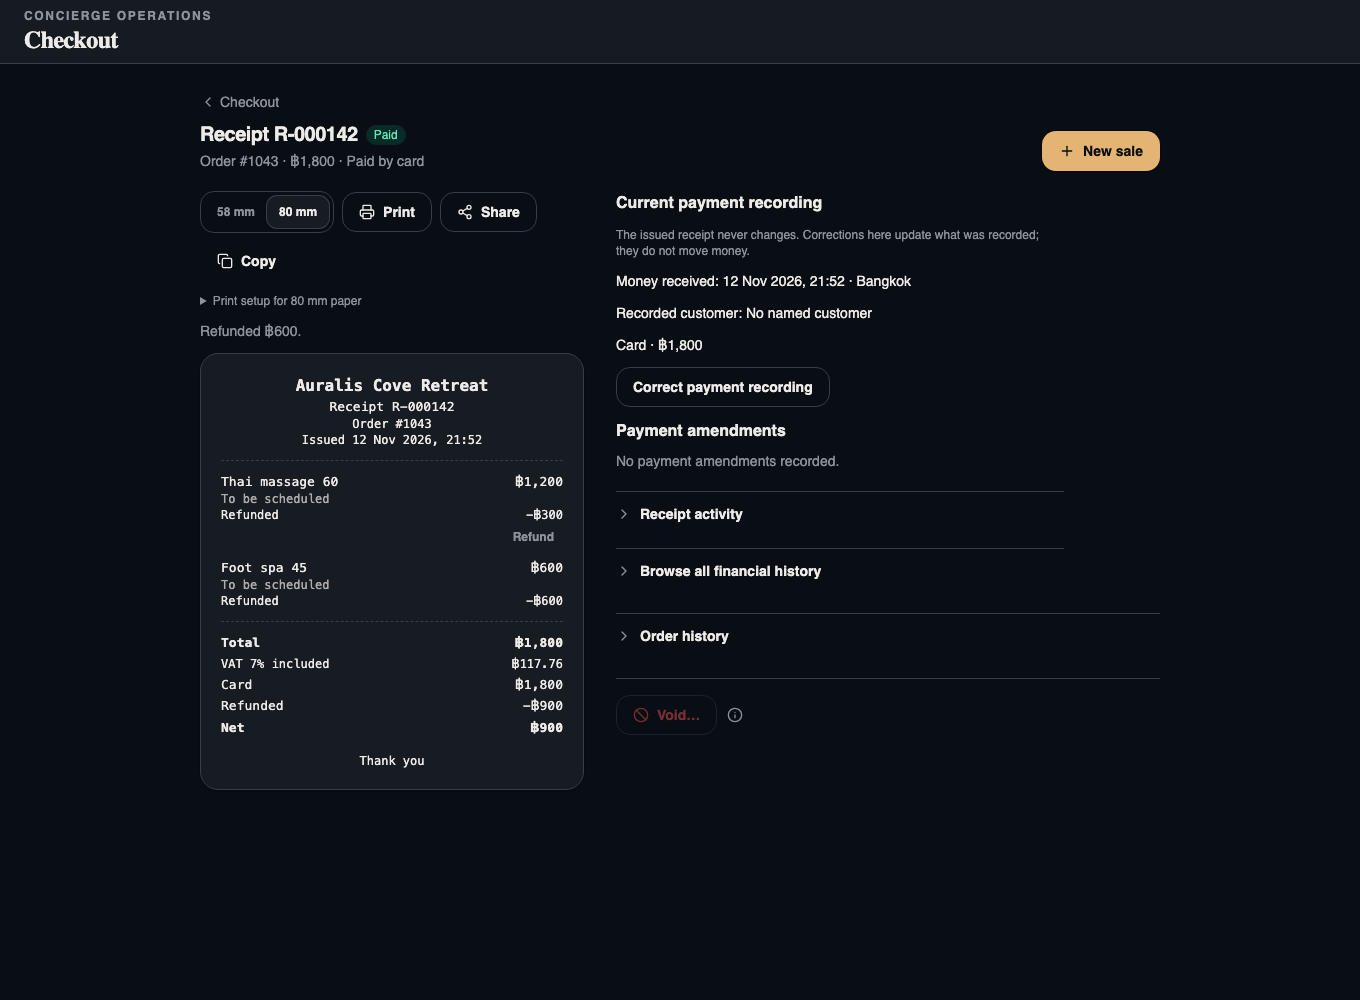
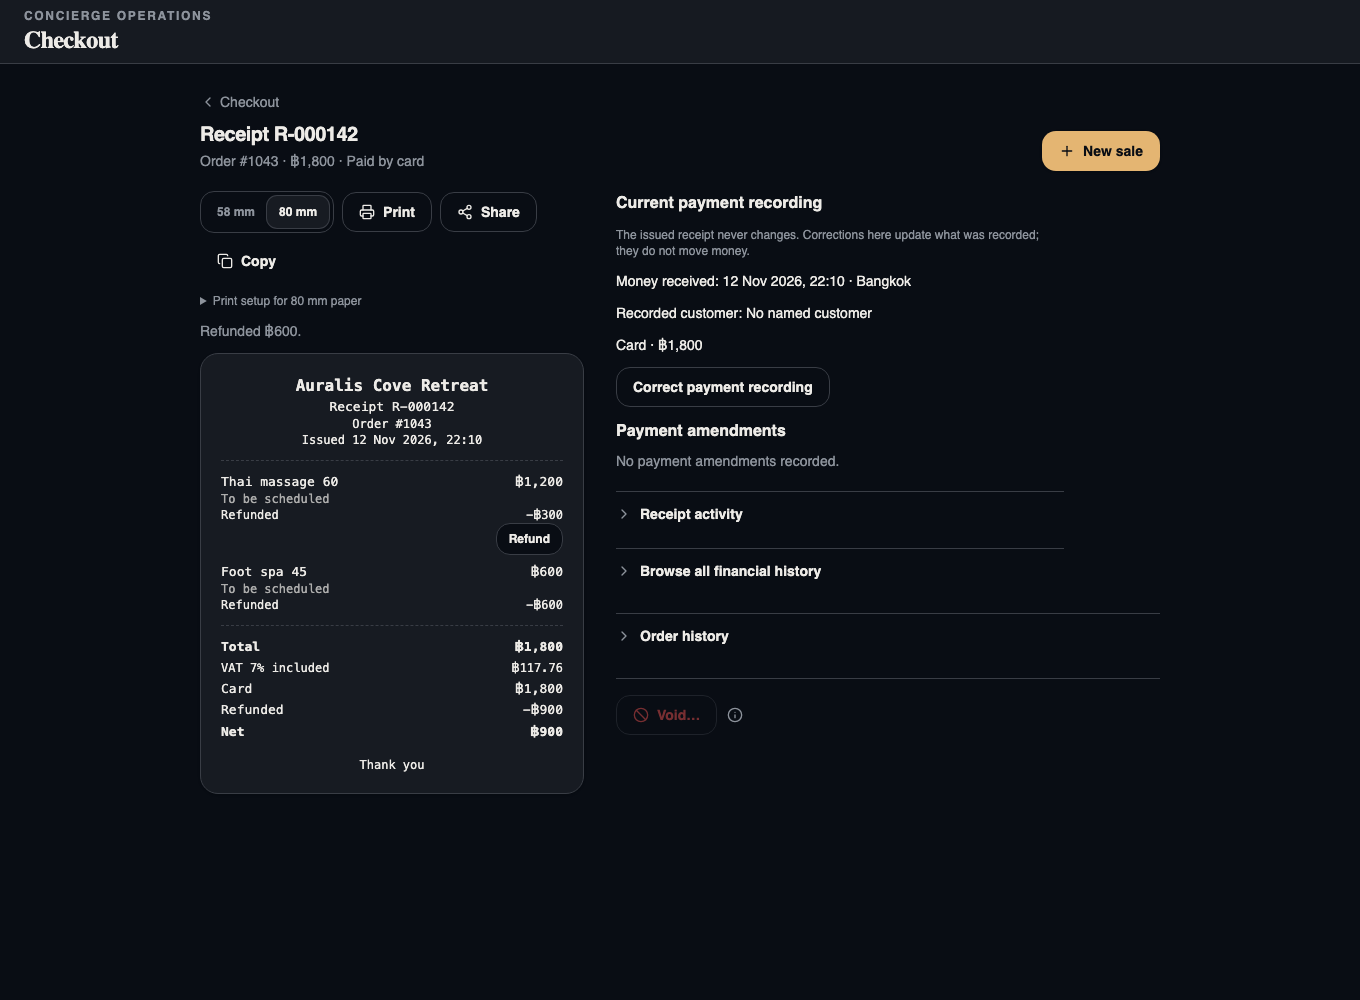
fix: address refund UI review findings
- Share and copy text show per-line refunds, Refunded and Net, as printed
- Plain-message refusals count as answered, keeping the amount cap
- Accept amounts like .5; prefill follows another till's refund until typed
- Say why Send request is off while a request waits
- Visible Refund button; status pill only when fully refunded
- Restore the original void copy; shorter idempotency conflict copy
- Fixture requests go stale when cashier rules change

diff --git a/src/components/checkout/RefundForm.tsx b/src/components/checkout/RefundForm.tsx
@@ -12,7 +12,7 @@ import { cn } from "@/lib/utils";
 import { newAttemptKey, useCheckoutBackend, type OrderLine, type OrderView } from "./backend";
 import { TOUCH_TARGETS, amountInput } from "./checkout-ui";
 import {
-  REFUND_METHODS, checkoutErrorText, errorCode, defaultRefundMethod, refundAmountSatang, remainingFromError, satangInput, satangMoney, type RefundMethod,
+  REFUND_METHODS, answeredRefusal, checkoutErrorText, defaultRefundMethod, refundAmountSatang, remainingFromError, satangInput, satangMoney, type RefundMethod,
 } from "./refunds";
 import { needsApproval } from "./staff-approvals";
 
@@ -43,7 +43,10 @@ export function RefundForm({ view, line, waiting, onDone, onCancel }: {
   // replays with the same key, so only the server's own cap applies until it answers.
   const [uncertain, setUncertain] = useState(false);
   const cap = Math.min(uncertain ? Number.POSITIVE_INFINITY : line.remainingRefundableSatang ?? 0, serverCap ?? Number.POSITIVE_INFINITY);
-  const [amount, setAmount] = useState(() => satangInput(line.remainingRefundableSatang ?? 0));
+  // Until staff type or submit, the amount follows what is left, so another till's refund lowers it.
+  const [typed, setTyped] = useState<string | null>(null);
+  const amount = typed ?? satangInput(Math.max(0, Number.isFinite(cap) ? cap : line.remainingRefundableSatang ?? 0));
+  const setAmount = setTyped;
   const [method, setMethod] = useState<RefundMethod>(() => defaultRefundMethod(view));
   const [reason, setReason] = useState("");
   const [saving, setSaving] = useState(false);
@@ -58,6 +61,8 @@ export function RefundForm({ view, line, waiting, onDone, onCancel }: {
     event?.preventDefault();
     if (lock.current || !ready || satang === null) return;
     lock.current = true;
+    // Freeze the amount: a retry must resend exactly what this key was first sent with.
+    setTyped(amount);
     setSaving(true);
     setError("");
     const clean = reason.trim();
@@ -80,7 +85,7 @@ export function RefundForm({ view, line, waiting, onDone, onCancel }: {
         setError("This needs a manager. Send it as a request.");
         return;
       }
-      setUncertain(!errorCode(err));
+      setUncertain(!answeredRefusal(err));
       const remaining = remainingFromError(err);
       if (remaining !== null) {
         setServerCap(remaining);
@@ -152,7 +157,7 @@ export function RefundForm({ view, line, waiting, onDone, onCancel }: {
         <Label htmlFor={`${id}-reason`}>Reason</Label>
         <Textarea id={`${id}-reason`} value={reason} maxLength={500} required disabled={saving} onChange={(event) => setReason(event.target.value)} placeholder="e.g. Shortened treatment" className="min-h-16 bg-background text-sm" />
       </div>
-      {error ? <p role="alert" className="text-sm text-destructive">{error}</p> : null}
+      {error ? <p role="alert" className="text-sm text-destructive">{error}</p> : ask && waiting ? <p className="text-sm text-muted-foreground">A request is already waiting.</p> : null}
       <Button type="submit" className="w-full" disabled={!ready || saving}>
         {saving ? <Spinner label={ask ? "Sending" : "Recording"} className="text-current" /> : null}
         {ask ? "Send request" : "Record refund"}

diff --git a/src/components/checkout/ReceiptView.tsx b/src/components/checkout/ReceiptView.tsx
@@ -128,7 +128,7 @@ export function ReceiptView({ orderId, onNewSale, onOpenOrder }: { orderId: Orde
   // A cashier who must ask can't send a second request while one waits.
   const refundLocked = cashier && access.cashierRules.refund === "manager" && waiting;
 
-  /** Closes the form and puts focus back on its line's Refund, or on the notice when that line is done. */
+  /** Closes the form. Cancel returns focus to the line's Refund; a finished refund or request focuses the notice. */
   function closeRefund(lineId: Id<"billLines">, message?: string) {
     flushSync(() => {
       setRefunding(null);
@@ -185,10 +185,8 @@ export function ReceiptView({ orderId, onNewSale, onOpenOrder }: { orderId: Orde
           </button>
           <h2 className="mt-1 flex flex-wrap items-center gap-2 text-xl font-semibold tracking-tight">
             Receipt {receiptNumber}
-            {paid ? (
-              <span data-testid="receipt-status" className={cn("rounded-full px-2 py-0.5 text-xs font-medium tracking-normal", view.fullyRefunded ? TONES.muted.bg : TONES.success.bg, view.fullyRefunded ? TONES.muted.text : TONES.success.text)}>
-                {view.fullyRefunded ? "Refunded" : "Paid"}
-              </span>
+            {paid && view.fullyRefunded ? (
+              <span data-testid="receipt-status" className={cn("rounded-full px-2 py-0.5 text-xs font-medium tracking-normal", TONES.muted.bg, TONES.muted.text)}>Refunded</span>
             ) : null}
           </h2>
           <p className="mt-0.5 text-sm text-muted-foreground">
@@ -284,13 +282,13 @@ export function ReceiptView({ orderId, onNewSale, onOpenOrder }: { orderId: Orde
                   <div data-screen-only="" className="flex justify-end print:hidden">
                     <Button
                       type="button"
-                      variant="ghost"
+                      variant="outline"
                       size="sm"
                       data-refund-trigger={line._id}
                       aria-label={`Refund ${line.name}`}
                       disabled={refundLocked || refunding !== null}
                       onClick={() => setRefunding(line._id)}
-                      className="h-7 px-2 font-sans text-xs text-muted-foreground hover:text-foreground"
+                      className="h-8 px-3 font-sans text-xs"
                     >
                       Refund
                     </Button>
@@ -410,7 +408,7 @@ function VoidDialog({ orderId, receipt, hasAttached, waiting }: { orderId: Order
           <DialogDescription asChild>
             <ul className="grid list-disc gap-1 pl-5">
               <li>The order and receipt stay on record, marked void, with their numbers.</li>
-              <li>A void sends or records no refund.</li>
+              <li>No refund is sent or recorded here.</li>
               {hasAttached ? <li>Its bookings and appointments stay marked paid. Record a refund on them if needed.</li> : null}
               <li>No money received at all? Use “No money was received” on the receipt instead.</li>
             </ul>

diff --git a/src/components/checkout/checkout-ui.ts b/src/components/checkout/checkout-ui.ts
@@ -121,8 +121,11 @@ export function couponRefusal(err: unknown): CouponRefusal | null {
 }
 
 /** Plain-text receipt for share and copy. Tenders show what was handed over, plus change, like the printed receipt. */
-export function receiptText(view: Pick<OrderView, "order" | "lines" | "payments" | "totals" | "receiptCustomer" | "legacyGuest"> & Partial<Pick<OrderView, "promotion">> & BookingRefs, business: string) {
+export function receiptText(view: Pick<OrderView, "order" | "lines" | "payments" | "totals" | "receiptCustomer" | "legacyGuest"> & Partial<Pick<OrderView, "promotion" | "refundedAmountSatang" | "refundHistoryTruncated">> & BookingRefs, business: string) {
   const { order, lines, payments, totals } = view;
+  // POS line refunds (satang), as on the printed receipt; none past the history limit.
+  const refunds = !view.refundHistoryTruncated;
+  const refunded = refunds ? view.refundedAmountSatang ?? 0 : 0;
   const coupon = couponLabel(view);
   const row = (left: string, right: string) => `${left}  ${right}`;
   const change = changeDue(payments);
@@ -141,7 +144,7 @@ export function receiptText(view: Pick<OrderView, "order" | "lines" | "payments"
     ...lines.flatMap((line) => {
       const share = line.couponDiscount ? lineCouponDiscount(line) : 0;
       const when = line.kind === "service" ? receiptSchedule(line.schedule) : null;
-      return [row(`${line.name}${line.qty > 1 ? ` ×${line.qty}` : ""}`, formatMoney(round2(line.net + share))), ...(share ? [row(`  ${coupon}`, formatMoney(-share))] : []), ...(when ? [`  ${when}`] : [])];
+      return [row(`${line.name}${line.qty > 1 ? ` ×${line.qty}` : ""}`, formatMoney(round2(line.net + share))), ...(share ? [row(`  ${coupon}`, formatMoney(-share))] : []), ...(when ? [`  ${when}`] : []), ...(refunds && line.refundedAmountSatang ? [row("  Refunded", formatMoney(-line.refundedAmountSatang / 100))] : [])];
     }),
     "",
     ...(totals.coupon ? [row("Subtotal", formatMoney(round2(totals.total + totals.coupon))), row(coupon, formatMoney(-totals.coupon))] : []),
@@ -150,6 +153,7 @@ export function receiptText(view: Pick<OrderView, "order" | "lines" | "payments"
     ...(totals.deposit ? [row("Paid before checkout", formatMoney(-totals.deposit))] : []),
     ...payments.map((p) => row(TENDER_LABELS[p.method].long, formatMoney(p.received ?? p.amount))),
     ...(change ? [row("Change", formatMoney(change))] : []),
+    ...(refunded ? [row("Refunded", formatMoney(-refunded / 100)), row("Net", formatMoney((Math.round(totals.total * 100) - refunded) / 100))] : []),
     ...(totals.coupon ? ["", `You saved ${formatMoney(totals.coupon)} with ${view.promotion?.code ?? "a coupon"}`] : []),
   ].join("\n");
 }

diff --git a/tests/unit/pos-checkout.test.ts b/tests/unit/pos-checkout.test.ts
@@ -195,3 +195,47 @@ describe("shared receipt text", () => {
     expect(text).not.toContain("Change");
   });
 });
+
+describe("shared receipt text with POS refunds", () => {
+  const view = (extra: Record<string, unknown>) =>
+    ({
+      order: { status: "paid", receiptNumber: 142, orderNumber: 1042, title: "Order #1042", paidAt: Date.parse("2026-10-29T14:05:00+07:00") },
+      receiptCustomer: null,
+      legacyGuest: null,
+      source: null,
+      lines: [{ name: "Thai massage 60", qty: 1, net: 1200, refundedAmountSatang: 30000 }, { name: "Foot spa 45", qty: 1, net: 600, refundedAmountSatang: 0 }],
+      payments: [{ method: "card", amount: 1800 }],
+      totals: { subtotal: 1800, discount: 0, total: 1800, vat: 117.76, deposit: 0, due: 1800 },
+      ...extra,
+    }) as unknown as Parameters<typeof receiptText>[0];
+
+  it("matches the printed receipt: refunded rows and the net", () => {
+    const text = receiptText(view({ refundedAmountSatang: 30000 }), "Resort");
+    expect(text).toContain("  Refunded  -฿300");
+    expect(text).toContain("Refunded  -฿300\nNet  ฿1,500");
+  });
+
+  it("shows no refund rows without refunds or past the history limit", () => {
+    expect(receiptText(view({ lines: [{ name: "Foot spa 45", qty: 1, net: 600 }], refundedAmountSatang: 0 }), "Resort")).not.toContain("Refunded");
+    const truncated = receiptText(view({ refundedAmountSatang: 30000, refundHistoryTruncated: true }), "Resort");
+    expect(truncated).not.toContain("Refunded");
+    expect(truncated).not.toContain("Net");
+  });
+});
+
+describe("refund amount input", () => {
+  it("turns typed baht into whole satang", async () => {
+    const { refundAmountSatang, answeredRefusal } = await import("@/components/checkout/refunds");
+    expect(refundAmountSatang("250")).toBe(25000);
+    expect(refundAmountSatang("0.29")).toBe(29);
+    expect(refundAmountSatang(".5")).toBe(50);
+    expect(refundAmountSatang("12.")).toBe(1200);
+    expect(refundAmountSatang("0")).toBeNull();
+    expect(refundAmountSatang("1.234")).toBeNull();
+    expect(refundAmountSatang(".")).toBeNull();
+    // A refusal the server answered, typed or plain, wrote nothing; a lost answer is unknown.
+    expect(answeredRefusal({ data: { code: "PENDING_APPROVAL" } })).toBe(true);
+    expect(answeredRefusal({ data: "Not allowed" })).toBe(true);
+    expect(answeredRefusal(new Error("Network"))).toBe(false);
+  });
+});

diff --git a/src/components/checkout/refunds.ts b/src/components/checkout/refunds.ts
@@ -31,7 +31,7 @@ export const satangInput = (satang: number) => (satang / 100).toFixed(satang % 1
 /** Typed baht ("250", "99.5") to whole satang, or null when it isn't a positive amount with at most two decimals. */
 export function refundAmountSatang(text: string) {
   const clean = text.trim();
-  if (!/^\d+(\.\d{1,2})?$/.test(clean)) return null;
+  if (!/^(\d+(\.\d{0,2})?|\.\d{1,2})$/.test(clean)) return null;
   const satang = Math.round(Number(clean) * 100);
   return Number.isSafeInteger(satang) && satang > 0 ? satang : null;
 }
@@ -86,7 +86,7 @@ export function checkoutErrorText(err: unknown, fallback: string) {
     case "PENDING_APPROVAL":
       return "A request is already waiting on this order.";
     case "IDEMPOTENCY_CONFLICT":
-      return "This refund was already sent with other details. Close it and check the receipt.";
+      return "Already recorded with other details. Check the receipt.";
     case "INVALID_REFUND_REASON":
       return "Add a reason, up to 500 characters.";
     case "INVALID_REFUND_AMOUNT":
@@ -114,6 +114,10 @@ export function errorCode(err: unknown) {
   const code = errorData(err)?.code;
   return typeof code === "string" ? code : null;
 }
+
+/** The server answered with a refusal (typed, or a ConvexError with a plain message), so nothing was written. */
+export const answeredRefusal = (err: unknown) =>
+  errorCode(err) !== null || (Boolean(err) && typeof err === "object" && typeof (err as { data?: unknown }).data === "string");
 
 /** The server's remaining satang from REFUND_EXCEEDS_REMAINING, or null. */
 export function remainingFromError(err: unknown) {

diff --git a/src/components/checkout/fixture-backend.ts b/src/components/checkout/fixture-backend.ts
@@ -217,11 +217,11 @@ export function createFixtureBackend(options: { bookings?: Partial<FixtureBookin
     if (reductionSatang > limitSatang) throw new ConvexError({ code: "NEEDS_APPROVAL", kind, message: "This manual discount needs manager approval.", subtotalSatang, reductionSatang, limitSatang, amount: reductionSatang / 100, discountLimitPercent: rules.discountLimitPercent });
   };
   const requests: ApprovalRequest[] = [];
-  /** As effectiveRequestStatus: past its deadline it expired; any change to the order made it stale. */
+  /** As effectiveRequestStatus: past its deadline it expired; any change to the order or the cashier rules made it stale. */
   const requestStatus = (request: ApprovalRequest): ApprovalRequest["status"] => {
     if (request.status !== "pending") return request.status;
     if (Date.now() >= request.expiresAt) return "expired";
-    return state.orders.get(request.orderId)?.revision === request.orderRevision ? "pending" : "stale";
+    return state.orders.get(request.orderId)?.revision === request.orderRevision && request.rulesRevision === rules.revision ? "pending" : "stale";
   };
   const effective = (request: ApprovalRequest) => ({ ...request, status: requestStatus(request) });
   const feeAttempts = new Map<string, { fingerprint: string; orderId: Id<"bills">; lineId: Id<"billLines"> }>();

diff --git a/tests/browser/pos-refunds.spec.ts b/tests/browser/pos-refunds.spec.ts
@@ -23,7 +23,7 @@ test.use({ viewport: { width: 1360, height: 1000 } });
 test("a manager refunds part of a line, then the rest of the receipt", async ({ page }) => {
   await open(page, "?role=manager&scenario=refund");
   const r = receipt(page);
-  await expect(page.getByTestId("receipt-status")).toHaveText("Paid");
+  await expect(page.getByTestId("receipt-status")).toHaveCount(0);
   await expect(r.getByTestId("receipt-net")).toHaveCount(0);
 
   await r.getByRole("button", { name: "Refund Thai massage 60" }).click();
@@ -46,7 +46,7 @@ test("a manager refunds part of a line, then the rest of the receipt", async ({ 
   await expect(r.getByTestId("receipt-line-refunded")).toHaveText("Refunded-฿300");
   await expect(r.getByTestId("receipt-refunded")).toHaveText("Refunded-฿300");
   await expect(r.getByTestId("receipt-net")).toHaveText("Net฿1,500");
-  await expect(page.getByTestId("receipt-status")).toHaveText("Paid");
+  await expect(page.getByTestId("receipt-status")).toHaveCount(0);
 
   // The rest of the massage: the form now offers what is left.
   const rest = await refund(page, "Thai massage 60", null, "Guest left early");
